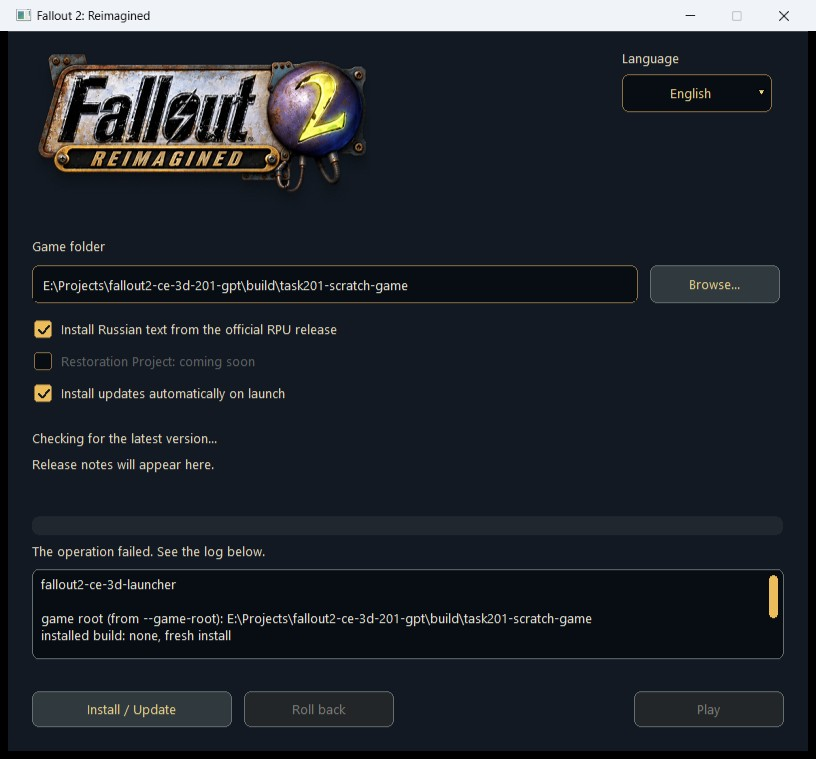
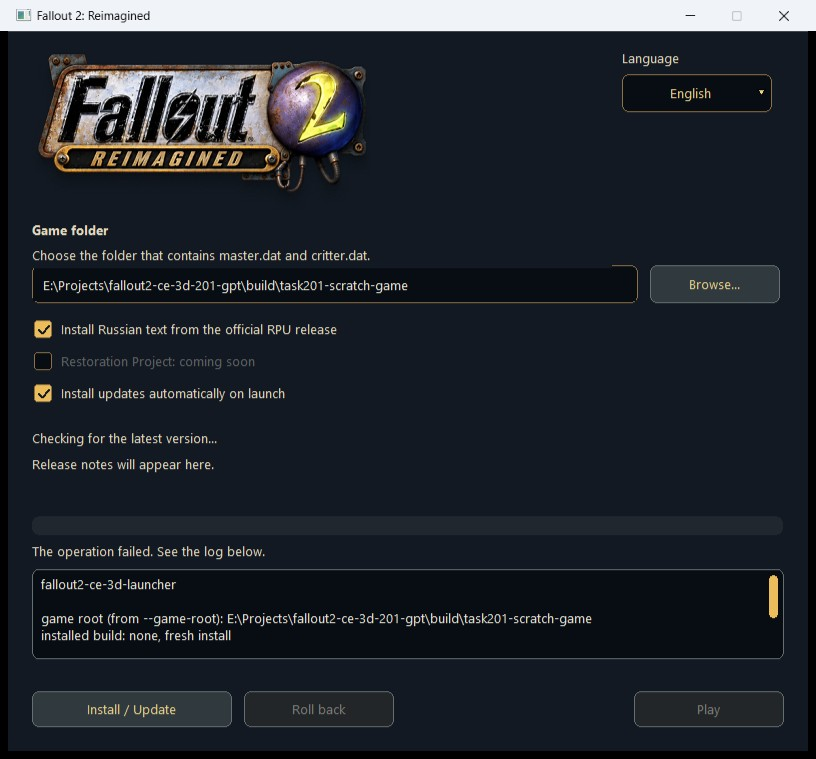
201: Add localized folder hint

Changed region(s): [[0.0306, 0.2727, 0.4596, 0.3636]]

diff --git a/ce/src/launcher_ui.cc b/ce/src/launcher_ui.cc
@@ -37,6 +37,7 @@ constexpr int ID_INSTALL = 1012;
 constexpr int ID_ROLLBACK = 1013;
 constexpr int ID_PLAY = 1014;
 constexpr int ID_LOG_SCROLL = 1015;
+constexpr int ID_PATH_HINT = 1016;
 constexpr WORD IDB_LAUNCHER_LOGO = 201;
 
 struct UiArgs {
@@ -69,9 +70,11 @@ HWND g_install = nullptr;
 HWND g_rollback = nullptr;
 HWND g_play = nullptr;
 HWND g_logScroll = nullptr;
+HWND g_pathHint = nullptr;
 WNDPROC g_logOriginalProc = nullptr;
 HBITMAP g_logo = nullptr;
 HFONT g_font = nullptr;
+HFONT g_headingFont = nullptr;
 HBRUSH g_background = nullptr;
 HBRUSH g_editBackground = nullptr;
 UiArgs g_args;
@@ -378,6 +381,8 @@ void updateLabels()
 {
     SetWindowTextW(g_window, tr(L"Fallout 2: Reimagined", L"Fallout 2: Reimagined").c_str());
     SetWindowTextW(GetDlgItem(g_window, ID_GAME_ROOT - 100), tr(L"Game folder", L"Папка игры").c_str());
+    SetWindowTextW(g_pathHint, tr(L"Choose the folder that contains master.dat and critter.dat.",
+        L"Выберите папку, где находятся master.dat и critter.dat.").c_str());
     SetWindowTextW(g_browse, tr(L"Browse...", L"Обзор...").c_str());
     SetWindowTextW(g_russian, tr(L"Install Russian text from the official RPU release", L"Установить русский текст из официального релиза RPU").c_str());
     SetWindowTextW(g_rp, tr(L"Restoration Project: coming soon", L"Restoration Project: скоро").c_str());
@@ -590,7 +595,13 @@ void createControls(HWND window)
 {
     g_font = CreateFontW(18, 0, 0, 0, FW_NORMAL, FALSE, FALSE, FALSE, DEFAULT_CHARSET,
         OUT_DEFAULT_PRECIS, CLIP_DEFAULT_PRECIS, CLEARTYPE_QUALITY, DEFAULT_PITCH | FF_DONTCARE, L"Segoe UI");
-    createControl(window, L"STATIC", L"Game folder", SS_LEFT, 24, 206, 180, 25, ID_GAME_ROOT - 100);
+    g_headingFont = CreateFontW(18, 0, 0, 0, FW_BOLD, FALSE, FALSE, FALSE, DEFAULT_CHARSET,
+        OUT_DEFAULT_PRECIS, CLIP_DEFAULT_PRECIS, CLEARTYPE_QUALITY, DEFAULT_PITCH | FF_DONTCARE, L"Segoe UI");
+    createControl(window, L"STATIC", L"Game folder", SS_LEFT, 24, 190, 580, 23, ID_GAME_ROOT - 100);
+    SendMessageW(GetDlgItem(window, ID_GAME_ROOT - 100), WM_SETFONT, reinterpret_cast<WPARAM>(g_headingFont), TRUE);
+    createControl(window, L"STATIC", L"Choose the folder that contains master.dat and critter.dat.",
+        SS_LEFT, 24, 215, 580, 22, ID_PATH_HINT);
+    g_pathHint = GetDlgItem(window, ID_PATH_HINT);
     createControl(window, L"EDIT", L"", ES_AUTOHSCROLL, 25, 245, 603, 25, ID_GAME_ROOT);
     g_root = GetDlgItem(window, ID_GAME_ROOT);
     SendMessageW(g_root, EM_SETMARGINS, EC_LEFTMARGIN, MAKELPARAM(10, 0));
@@ -920,6 +931,7 @@ LRESULT CALLBACK launcherWindowProc(HWND window, UINT message, WPARAM wParam, LP
         saveSettings();
         if (g_logo != nullptr) DeleteObject(g_logo);
         if (g_font != nullptr) DeleteObject(g_font);
+        if (g_headingFont != nullptr) DeleteObject(g_headingFont);
         if (g_background != nullptr) DeleteObject(g_background);
         if (g_editBackground != nullptr) DeleteObject(g_editBackground);
         PostQuitMessage(0);

diff --git a/tasks/201-installer-controls-and-log-scrollbar.md b/tasks/201-installer-controls-and-log-scrollbar.md
@@ -27,6 +27,9 @@ Finish the installer details identified by the owner after PR #290.
 ## Acceptance
 
 - Add left padding inside the install path field.
+- Move the folder heading upward, make it bold, and add a persistent normal-weight
+  RU/EN hint directly below it explaining that the selected folder needs
+  `master.dat` and `critter.dat`.
 - Shift the selected language text slightly right to visually center it with
   the dropdown arrow; preserve dropdown selection and saved language.
 - Replace standard checkboxes with rounded controls matching the field style.
@@ -75,3 +78,33 @@ log content and visible while overflowing. No game files or owner cache were
 used.
 
 Next: Review CI results on this commit, then merge the PR when green.
+
+### 2026-11-05 gpt
+
+Done: The owner added a visible path hint to the same installer follow-up.
+Moved the folder heading up and made it bold, then placed the normal-weight
+localized `master.dat` / `critter.dat` instruction between it and the path
+field. RU/EN captures and checks are pending.
+
+Next: Verify that the helper line fits in both languages, rebuild and test,
+then replace evidence and wait for CI on the final SHA.
+
+### 2026-11-05 gpt
+
+Done: Verified the new bold folder heading and normal-weight localized hint
+fit between the logo and path field in both languages. Replaced all current
+build evidence. The log remains a single task with no added layout changes
+beyond the owner's requested hint.
+
+Check: `tools/configure-build.ps1 Release` passed with MSVC 14.40 and Windows
+SDK 10.0.22621.0. `ctest --test-dir build --output-on-failure` passed 20/20.
+The current launcher SHA-256 is
[1 lines of base64/hex data omitted]
+Language popup persistence, both checkbox states, path edit, overflow-only
+scrollbar and physical wheel scrolling passed. Fresh RU/EN, progress and log
+captures are in `runs/201-installer-controls-and-log-scrollbar/`.
+
+Next: Review CI on the final SHA, then merge the PR when green.
+
+Check: See the Release build, CTest output, current-build images, and
+`interaction-check.json` under `runs/201-installer-controls-and-log-scrollbar/`.

diff --git a/runs/201-installer-controls-and-log-scrollbar/README.md b/runs/201-installer-controls-and-log-scrollbar/README.md
@@ -5,7 +5,9 @@ All four JPEGs are fresh `PrintWindow` captures at 816 x 759 and below 1 MB.
 `capture.json` records the launcher SHA-256 and language for each frame.
 
 - `installer-en.jpg` and `installer-ru.jpg`: English and Russian layouts,
-  with the path edit populated from a scratch game folder.
+  with the bold folder heading and normal-weight `master.dat` / `critter.dat`
+  hint between the logo and path edit. The edit is populated from a scratch
+  game folder.
 - `progress-active.jpg`: the custom progress bar while the isolated worker
   was running. It has no themed white stripe.
 - `log-scroll.jpg`: real multiline worker output, with the yellow thumb at the
